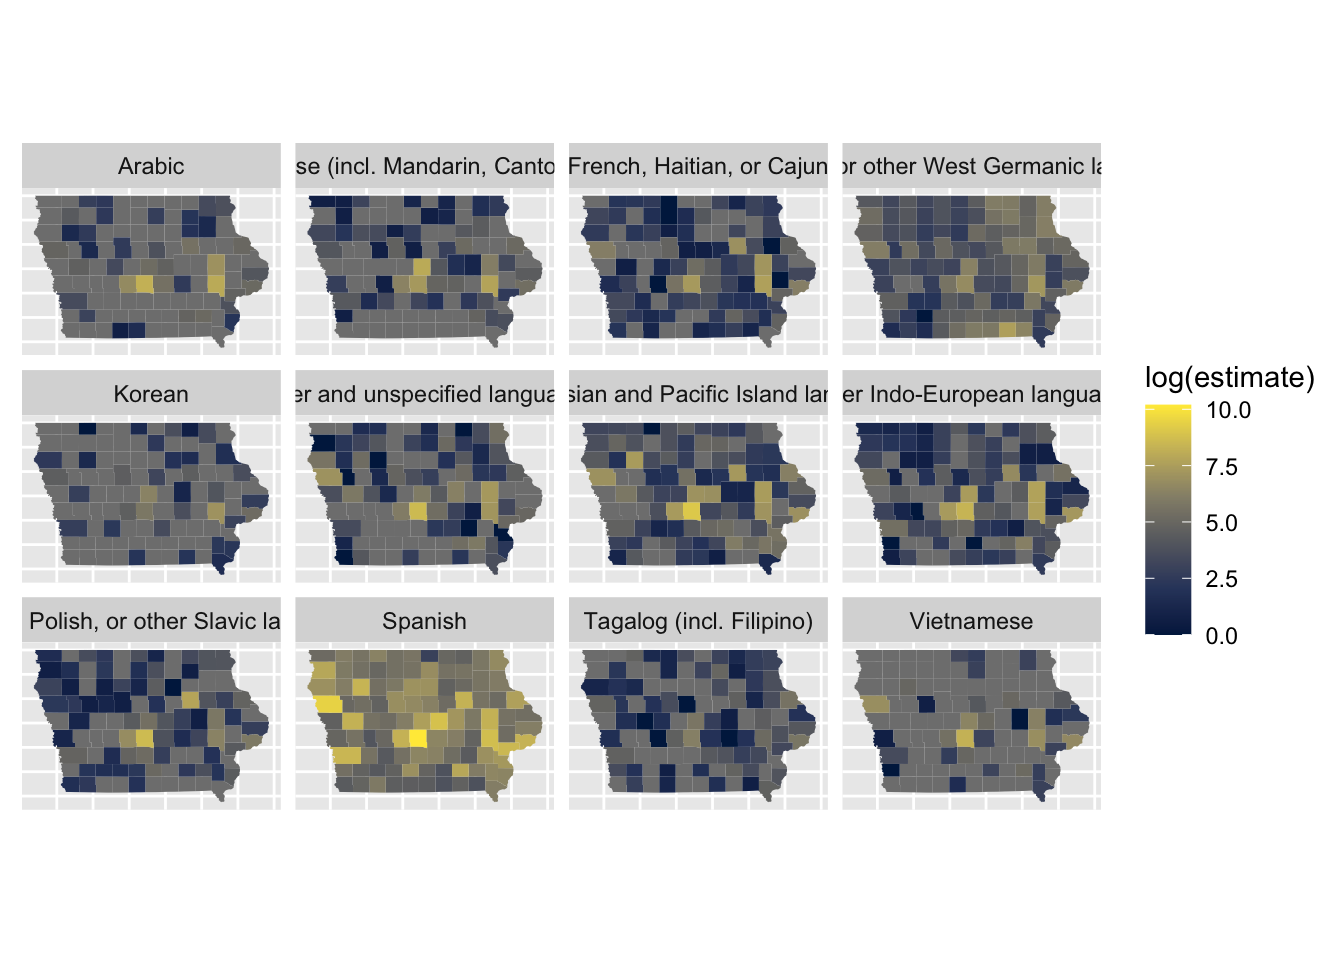
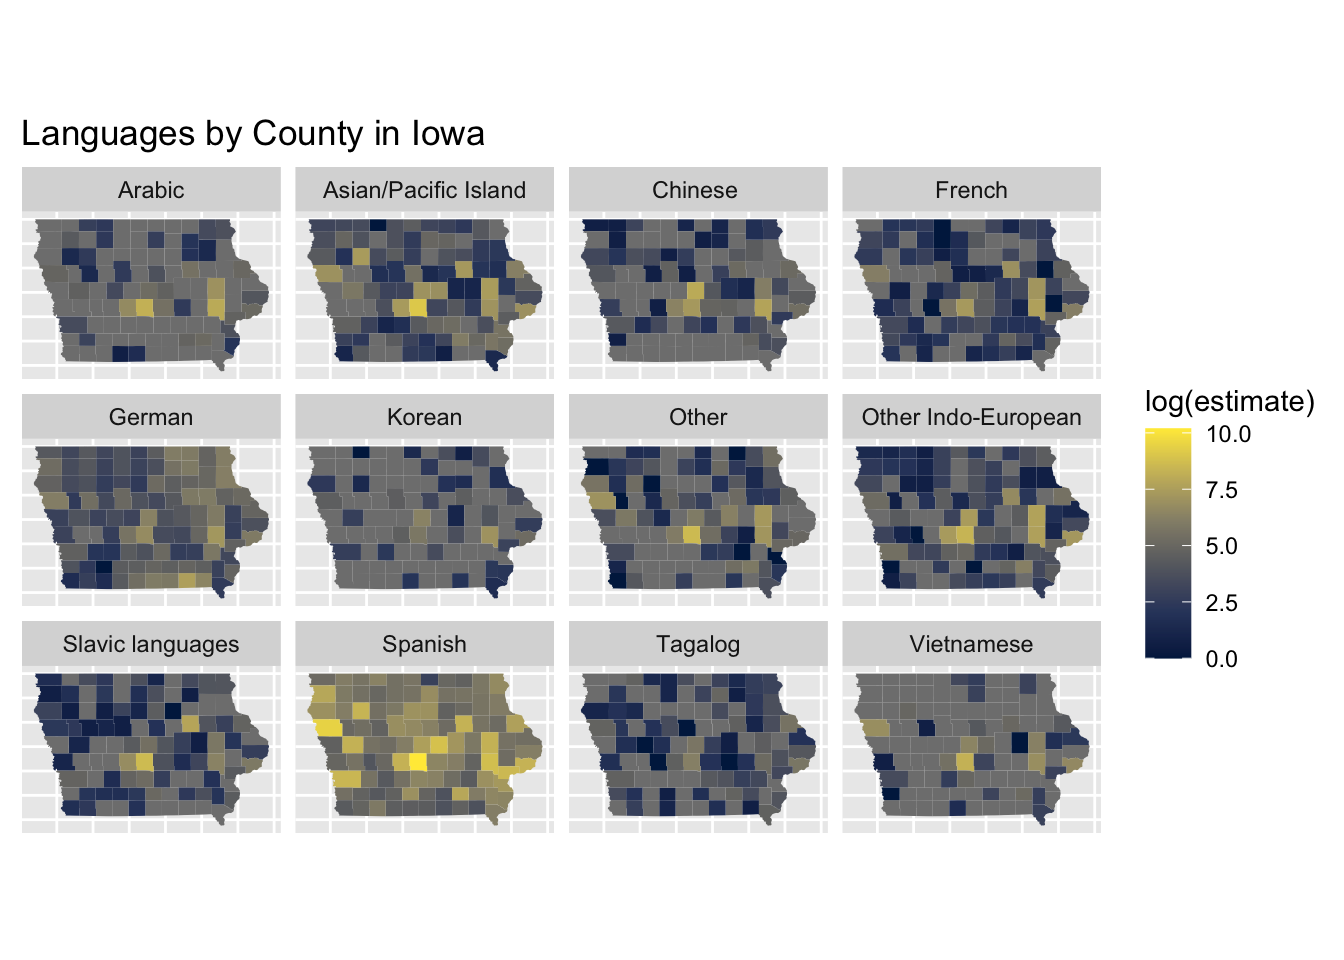
Updated Week Two blog post with maps

diff --git a/docs/posts/alex_week_two/alex_week_two.html b/docs/posts/alex_week_two/alex_week_two.html
@@ -130,8 +130,8 @@ code span.wa { color: #60a0b0; font-weight: bold; font-style: italic; } /* Warni
 
 </header>
 
-<section id="test" class="level1">
-<h1>Test</h1>
+<section id="map-of-languages-spoken-in-iowa-by-language" class="level1">
+<h1>Map of languages spoken in Iowa, by language</h1>
 <div class="cell">
 <div class="sourceCode cell-code" id="cb1"><pre class="sourceCode r code-with-copy"><code class="sourceCode r"><span id="cb1-1"><a href="#cb1-1" aria-hidden="true" tabindex="-1"></a>lang_map <span class="ot">&lt;-</span> iowa_lang <span class="sc">%&gt;%</span></span>
 <span id="cb1-2"><a href="#cb1-2" aria-hidden="true" tabindex="-1"></a>  <span class="fu">ggplot</span>(<span class="fu">aes</span>(<span class="at">fill =</span> <span class="fu">log</span>(estimate))) <span class="sc">+</span> </span>
@@ -140,9 +140,65 @@ code span.wa { color: #60a0b0; font-weight: bold; font-style: italic; } /* Warni
 <span id="cb1-5"><a href="#cb1-5" aria-hidden="true" tabindex="-1"></a>        <span class="at">axis.text.y=</span><span class="fu">element_blank</span>(),  <span class="co">#remove y axis labels</span></span>
 <span id="cb1-6"><a href="#cb1-6" aria-hidden="true" tabindex="-1"></a>        <span class="at">axis.ticks.y=</span><span class="fu">element_blank</span>()  <span class="co">#remove y axis ticks</span></span>
 <span id="cb1-7"><a href="#cb1-7" aria-hidden="true" tabindex="-1"></a>        ) <span class="sc">+</span></span>
-<span id="cb1-8"><a href="#cb1-8" aria-hidden="true" tabindex="-1"></a>  <span class="fu">geom_sf</span>(<span class="at">color =</span> <span class="cn">NA</span>) <span class="sc">+</span> </span>
-<span id="cb1-9"><a href="#cb1-9" aria-hidden="true" tabindex="-1"></a>  <span class="fu">facet_wrap</span>(<span class="sc">~</span>variable) <span class="sc">+</span></span>
-<span id="cb1-10"><a href="#cb1-10" aria-hidden="true" tabindex="-1"></a>  <span class="fu">scale_fill_viridis_c</span>(<span class="at">option =</span> <span class="st">"E"</span>) </span></code><button title="Copy to Clipboard" class="code-copy-button"><i class="bi"></i></button></pre></div>
+<span id="cb1-8"><a href="#cb1-8" aria-hidden="true" tabindex="-1"></a>    <span class="fu">labs</span>(<span class="at">title =</span> <span class="st">"Languages by County in Iowa"</span>) <span class="sc">+</span></span>
+<span id="cb1-9"><a href="#cb1-9" aria-hidden="true" tabindex="-1"></a>  <span class="fu">geom_sf</span>(<span class="at">color =</span> <span class="cn">NA</span>) <span class="sc">+</span> </span>
+<span id="cb1-10"><a href="#cb1-10" aria-hidden="true" tabindex="-1"></a>  <span class="fu">facet_wrap</span>(<span class="sc">~</span>variable) <span class="sc">+</span></span>
+<span id="cb1-11"><a href="#cb1-11" aria-hidden="true" tabindex="-1"></a>  <span class="fu">scale_fill_viridis_c</span>(<span class="at">option =</span> <span class="st">"E"</span>) </span>
+<span id="cb1-12"><a href="#cb1-12" aria-hidden="true" tabindex="-1"></a>lang_map</span></code><button title="Copy to Clipboard" class="code-copy-button"><i class="bi"></i></button></pre></div>
+<div class="cell-output-display">
+<p><img src="alex_week_two_files/figure-html/unnamed-chunk-3-1.png" class="img-fluid" width="672"></p>
+</div>
+</div>
+<div class="cell">
+<div class="sourceCode cell-code" id="cb2"><pre class="sourceCode r code-with-copy"><code class="sourceCode r"><span id="cb2-1"><a href="#cb2-1" aria-hidden="true" tabindex="-1"></a>iowa_income <span class="sc">%&gt;%</span></span>
+<span id="cb2-2"><a href="#cb2-2" aria-hidden="true" tabindex="-1"></a>  <span class="fu">ggplot</span>(<span class="fu">aes</span>(<span class="at">fill =</span> estimate)) <span class="sc">+</span> </span>
+<span id="cb2-3"><a href="#cb2-3" aria-hidden="true" tabindex="-1"></a>  <span class="fu">theme</span>(<span class="at">axis.text.x=</span><span class="fu">element_blank</span>(), <span class="co">#remove x axis labels</span></span>
+<span id="cb2-4"><a href="#cb2-4" aria-hidden="true" tabindex="-1"></a>        <span class="at">axis.ticks.x=</span><span class="fu">element_blank</span>(), <span class="co">#remove x axis ticks</span></span>
+<span id="cb2-5"><a href="#cb2-5" aria-hidden="true" tabindex="-1"></a>        <span class="at">axis.text.y=</span><span class="fu">element_blank</span>(),  <span class="co">#remove y axis labels</span></span>
+<span id="cb2-6"><a href="#cb2-6" aria-hidden="true" tabindex="-1"></a>        <span class="at">axis.ticks.y=</span><span class="fu">element_blank</span>()  <span class="co">#remove y axis ticks</span></span>
+<span id="cb2-7"><a href="#cb2-7" aria-hidden="true" tabindex="-1"></a>        ) <span class="sc">+</span></span>
+<span id="cb2-8"><a href="#cb2-8" aria-hidden="true" tabindex="-1"></a>  <span class="fu">labs</span>(<span class="at">title =</span> <span class="st">"Income by Tract"</span>) <span class="sc">+</span></span>
+<span id="cb2-9"><a href="#cb2-9" aria-hidden="true" tabindex="-1"></a>  <span class="fu">geom_sf</span>(<span class="at">color =</span> <span class="cn">NA</span>) <span class="sc">+</span> </span>
+<span id="cb2-10"><a href="#cb2-10" aria-hidden="true" tabindex="-1"></a>  <span class="fu">facet_wrap</span>(<span class="sc">~</span>variable) <span class="sc">+</span></span>
+<span id="cb2-11"><a href="#cb2-11" aria-hidden="true" tabindex="-1"></a>  <span class="fu">scale_fill_viridis_c</span>(<span class="at">option =</span> <span class="st">"E"</span>) </span></code><button title="Copy to Clipboard" class="code-copy-button"><i class="bi"></i></button></pre></div>
+<div class="cell-output-display">
+<p><img src="alex_week_two_files/figure-html/unnamed-chunk-5-1.png" class="img-fluid" width="672"></p>
+</div>
+</div>
+</section>
+<section id="mean-age-by-county" class="level1">
+<h1>Mean Age by County</h1>
+<div class="cell">
+<div class="sourceCode cell-code" id="cb3"><pre class="sourceCode r code-with-copy"><code class="sourceCode r"><span id="cb3-1"><a href="#cb3-1" aria-hidden="true" tabindex="-1"></a>iowa_ages_by_gender <span class="sc">%&gt;%</span></span>
+<span id="cb3-2"><a href="#cb3-2" aria-hidden="true" tabindex="-1"></a>  <span class="fu">ggplot</span>(<span class="fu">aes</span>(<span class="at">fill =</span> estimate)) <span class="sc">+</span> </span>
+<span id="cb3-3"><a href="#cb3-3" aria-hidden="true" tabindex="-1"></a>  <span class="fu">theme</span>(<span class="at">axis.text.x=</span><span class="fu">element_blank</span>(), <span class="co">#remove x axis labels</span></span>
+<span id="cb3-4"><a href="#cb3-4" aria-hidden="true" tabindex="-1"></a>        <span class="at">axis.ticks.x=</span><span class="fu">element_blank</span>(), <span class="co">#remove x axis ticks</span></span>
+<span id="cb3-5"><a href="#cb3-5" aria-hidden="true" tabindex="-1"></a>        <span class="at">axis.text.y=</span><span class="fu">element_blank</span>(),  <span class="co">#remove y axis labels</span></span>
+<span id="cb3-6"><a href="#cb3-6" aria-hidden="true" tabindex="-1"></a>        <span class="at">axis.ticks.y=</span><span class="fu">element_blank</span>()  <span class="co">#remove y axis ticks</span></span>
+<span id="cb3-7"><a href="#cb3-7" aria-hidden="true" tabindex="-1"></a>        ) <span class="sc">+</span></span>
+<span id="cb3-8"><a href="#cb3-8" aria-hidden="true" tabindex="-1"></a>  <span class="fu">labs</span>(<span class="at">title =</span> <span class="st">"Average Age by County"</span>) <span class="sc">+</span></span>
+<span id="cb3-9"><a href="#cb3-9" aria-hidden="true" tabindex="-1"></a>  <span class="fu">geom_sf</span>(<span class="at">color =</span> <span class="cn">NA</span>) <span class="sc">+</span> </span>
+<span id="cb3-10"><a href="#cb3-10" aria-hidden="true" tabindex="-1"></a>  <span class="fu">facet_wrap</span>(<span class="sc">~</span>variable) <span class="sc">+</span></span>
+<span id="cb3-11"><a href="#cb3-11" aria-hidden="true" tabindex="-1"></a>  <span class="fu">scale_fill_viridis_c</span>(<span class="at">option =</span> <span class="st">"E"</span>) </span></code><button title="Copy to Clipboard" class="code-copy-button"><i class="bi"></i></button></pre></div>
+<div class="cell-output-display">
+<p><img src="alex_week_two_files/figure-html/unnamed-chunk-7-1.png" class="img-fluid" width="672"></p>
+</div>
+</div>
+<div class="cell">
+<div class="sourceCode cell-code" id="cb4"><pre class="sourceCode r code-with-copy"><code class="sourceCode r"><span id="cb4-1"><a href="#cb4-1" aria-hidden="true" tabindex="-1"></a>iowa_ages_by_gender <span class="sc">%&gt;%</span></span>
+<span id="cb4-2"><a href="#cb4-2" aria-hidden="true" tabindex="-1"></a>  <span class="fu">ggplot</span>(<span class="fu">aes</span>(<span class="at">fill =</span> estimate)) <span class="sc">+</span> </span>
+<span id="cb4-3"><a href="#cb4-3" aria-hidden="true" tabindex="-1"></a>  <span class="fu">theme</span>(<span class="at">axis.text.x=</span><span class="fu">element_blank</span>(), <span class="co">#remove x axis labels</span></span>
+<span id="cb4-4"><a href="#cb4-4" aria-hidden="true" tabindex="-1"></a>        <span class="at">axis.ticks.x=</span><span class="fu">element_blank</span>(), <span class="co">#remove x axis ticks</span></span>
+<span id="cb4-5"><a href="#cb4-5" aria-hidden="true" tabindex="-1"></a>        <span class="at">axis.text.y=</span><span class="fu">element_blank</span>(),  <span class="co">#remove y axis labels</span></span>
+<span id="cb4-6"><a href="#cb4-6" aria-hidden="true" tabindex="-1"></a>        <span class="at">axis.ticks.y=</span><span class="fu">element_blank</span>()  <span class="co">#remove y axis ticks</span></span>
+<span id="cb4-7"><a href="#cb4-7" aria-hidden="true" tabindex="-1"></a>        ) <span class="sc">+</span></span>
+<span id="cb4-8"><a href="#cb4-8" aria-hidden="true" tabindex="-1"></a>  <span class="fu">labs</span>(<span class="at">title =</span> <span class="st">"Average Age by Tract (Male and Female)"</span>) <span class="sc">+</span></span>
+<span id="cb4-9"><a href="#cb4-9" aria-hidden="true" tabindex="-1"></a>  <span class="fu">geom_sf</span>(<span class="at">color =</span> <span class="cn">NA</span>) <span class="sc">+</span> </span>
+<span id="cb4-10"><a href="#cb4-10" aria-hidden="true" tabindex="-1"></a>  <span class="fu">facet_wrap</span>(<span class="sc">~</span>variable) <span class="sc">+</span></span>
+<span id="cb4-11"><a href="#cb4-11" aria-hidden="true" tabindex="-1"></a>  <span class="fu">scale_fill_viridis_c</span>(<span class="at">option =</span> <span class="st">"E"</span>) </span></code><button title="Copy to Clipboard" class="code-copy-button"><i class="bi"></i></button></pre></div>
+<div class="cell-output-display">
+<p><img src="alex_week_two_files/figure-html/unnamed-chunk-9-1.png" class="img-fluid" width="672"></p>
+</div>
 </div>
 </section>
 
